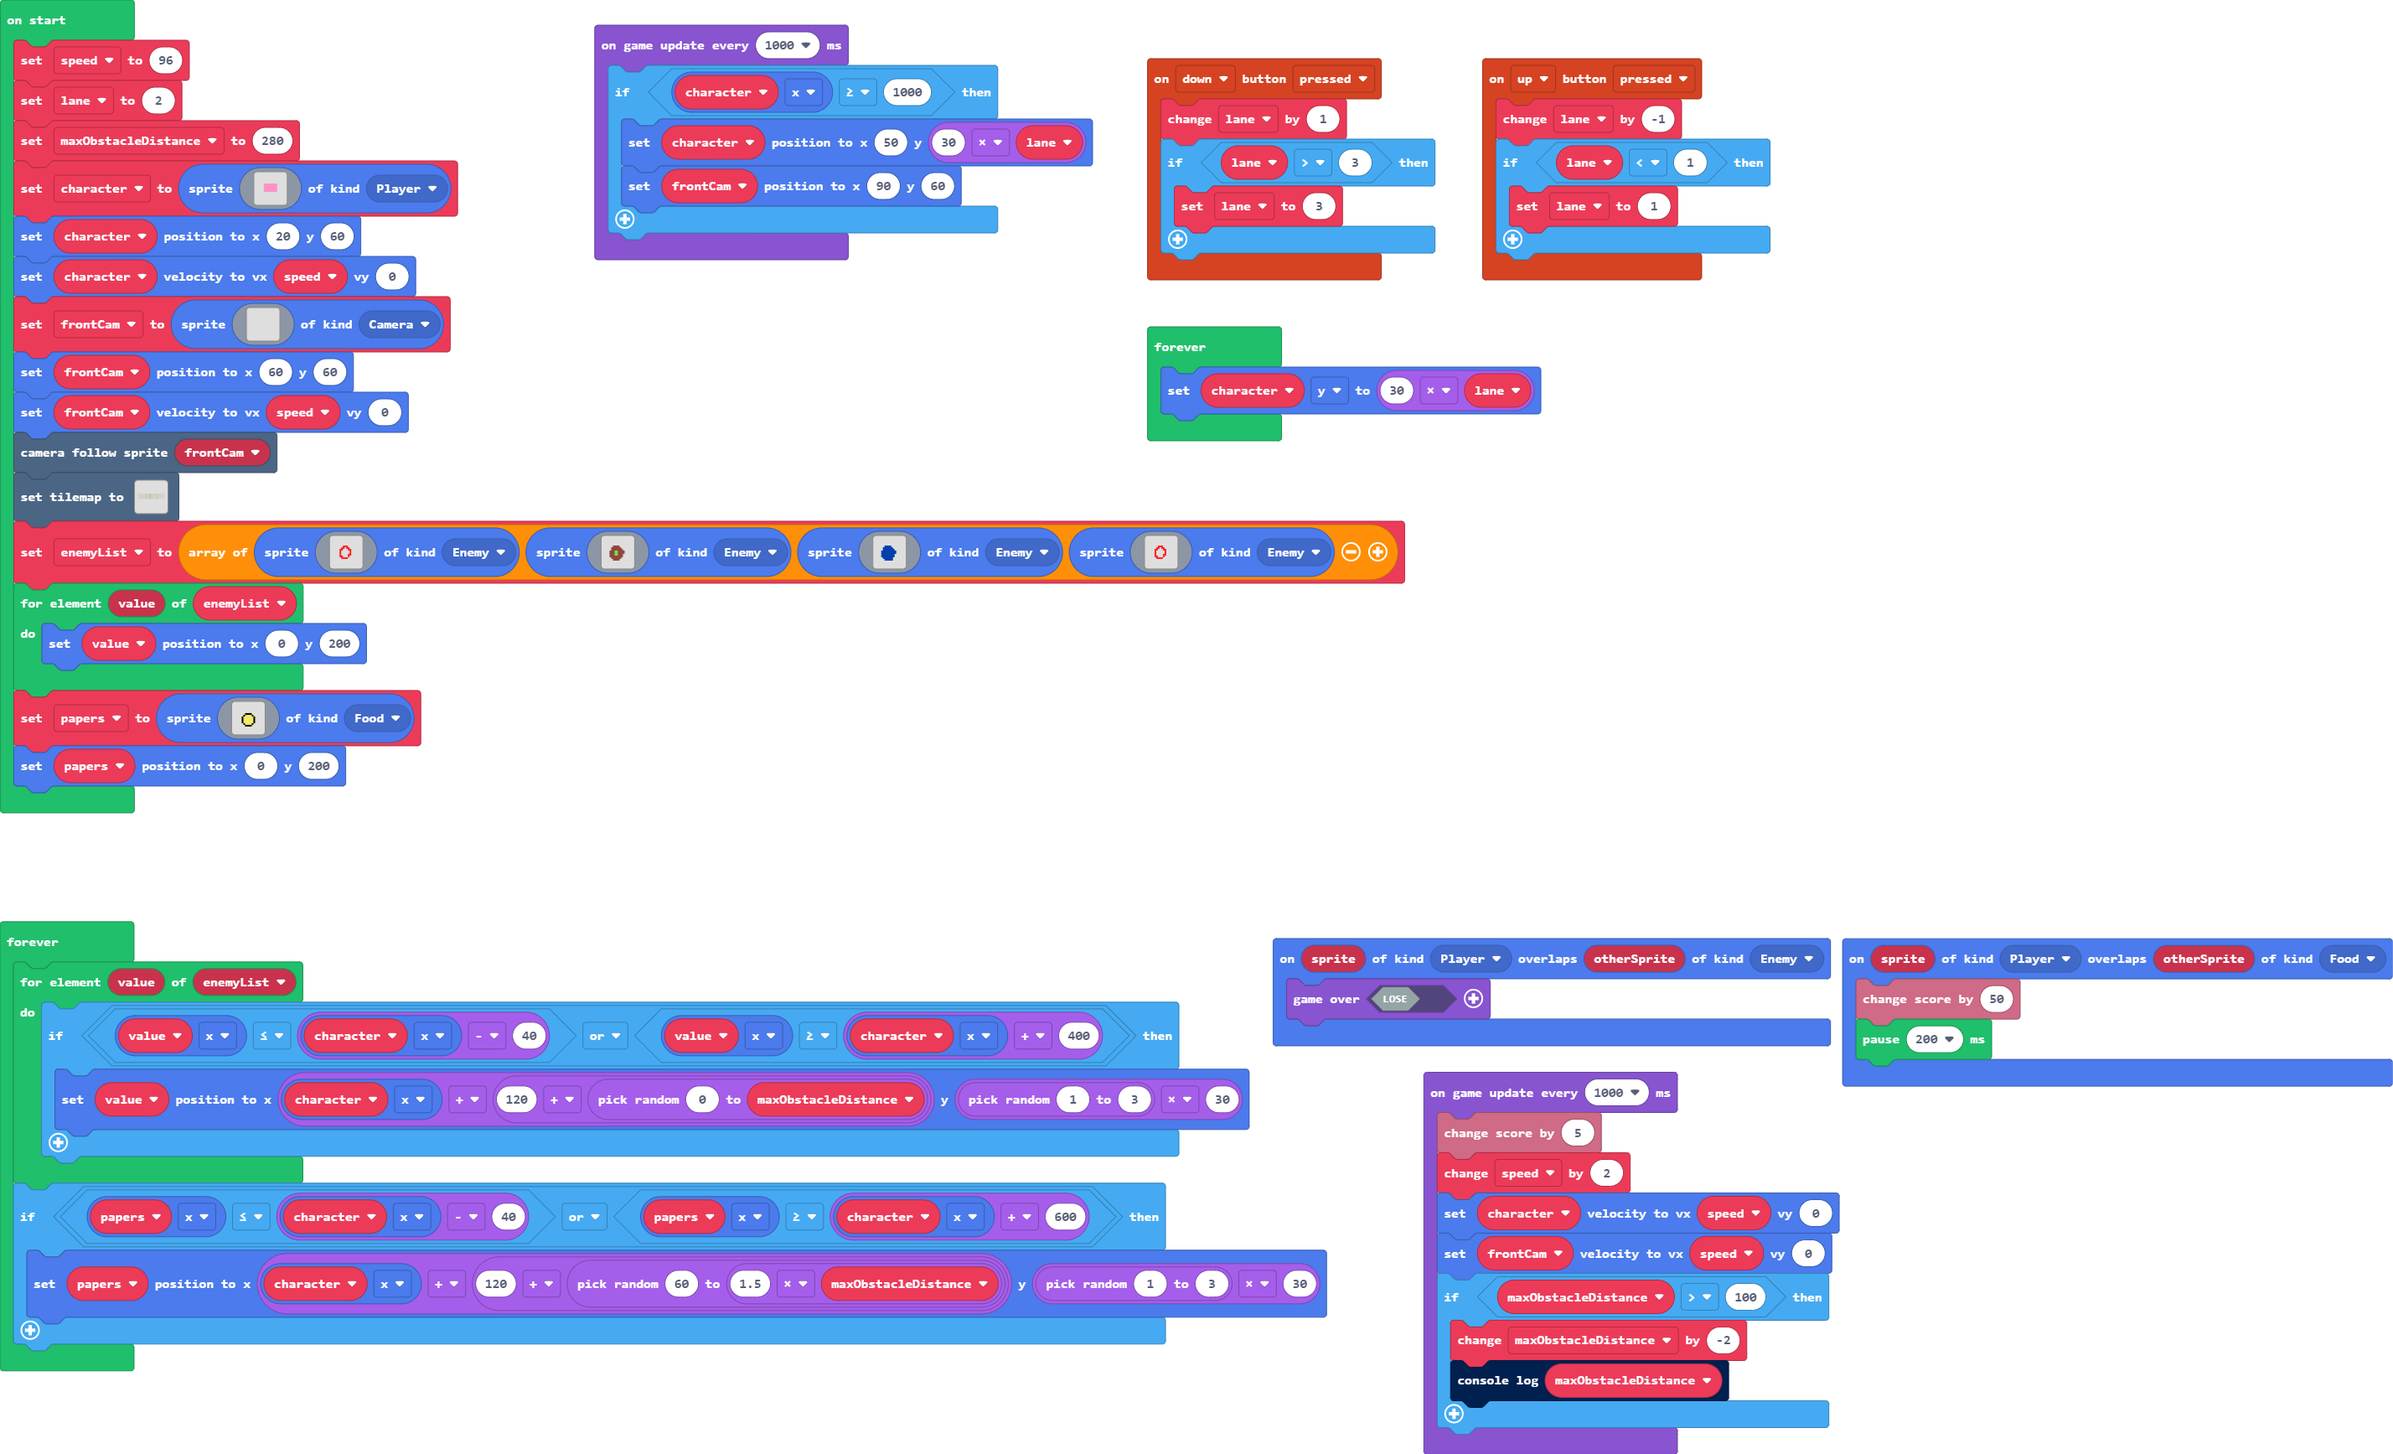
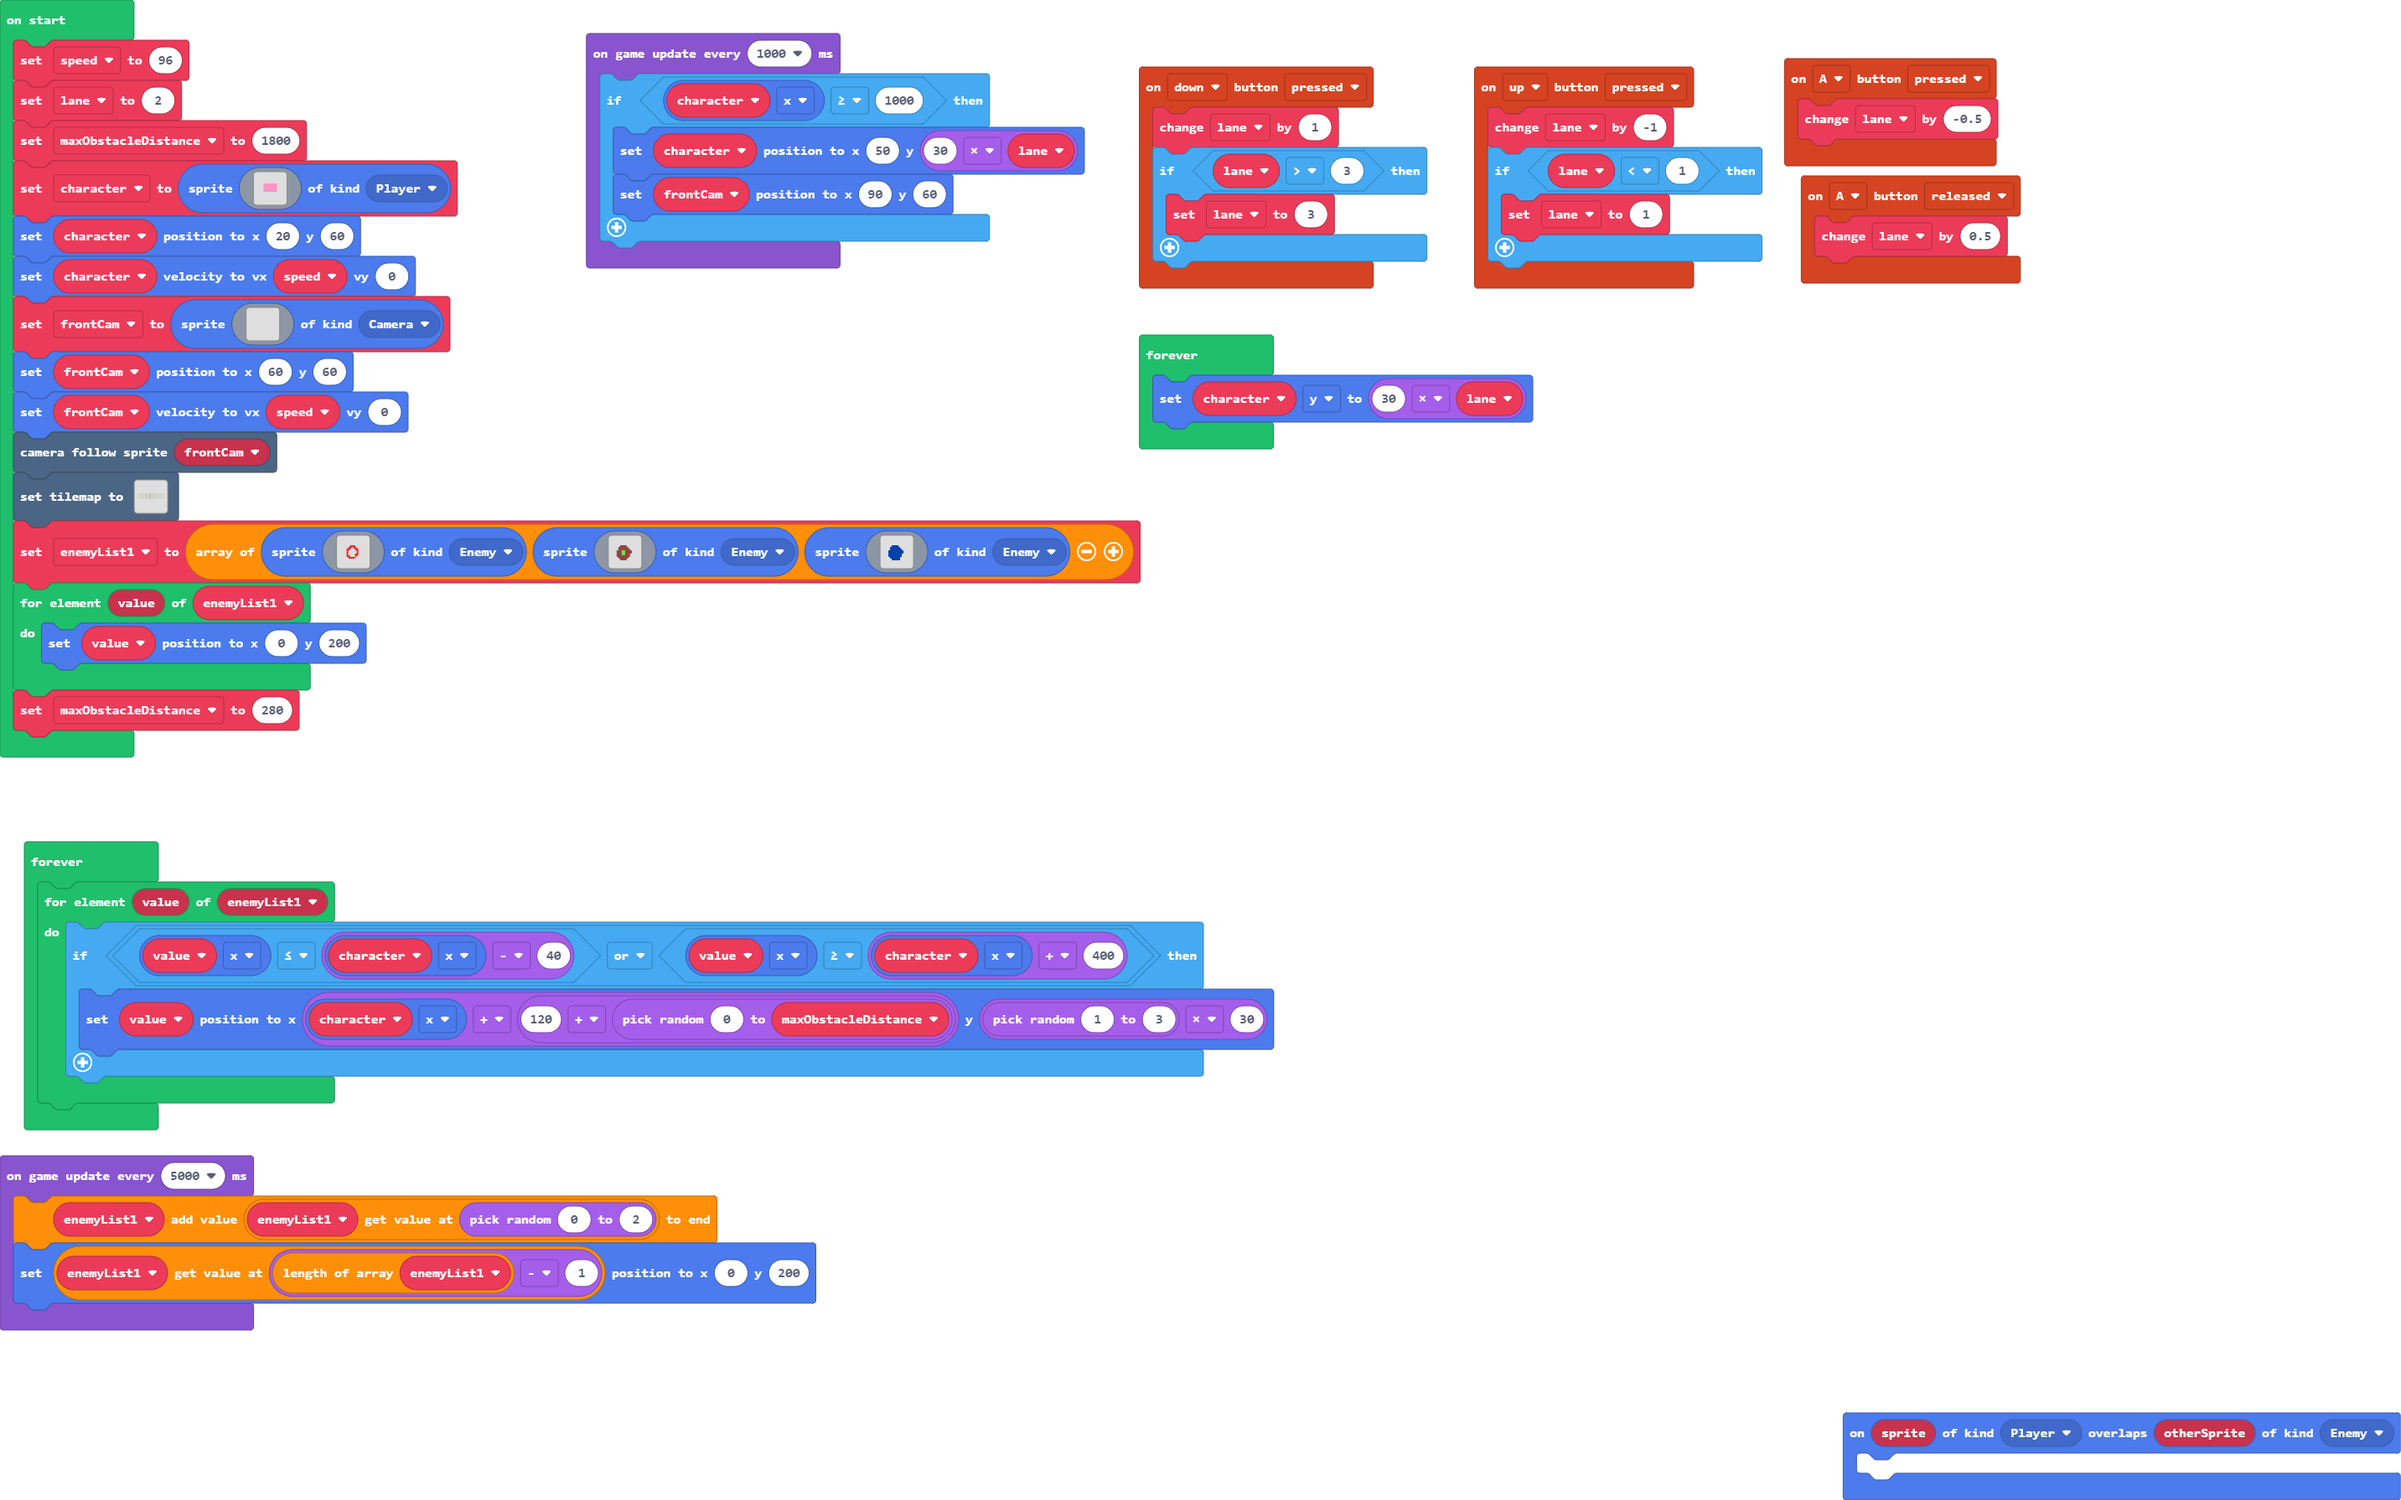
Update main.blocks, main.ts

diff --git a/main.ts b/main.ts
@@ -7,6 +7,12 @@ controller.up.onEvent(ControllerButtonEvent.Pressed, function () {
         lane = 1
     }
 })
+controller.A.onEvent(ControllerButtonEvent.Pressed, function () {
+    lane += -0.5
+})
+controller.A.onEvent(ControllerButtonEvent.Released, function () {
+    lane += 0.5
+})
 controller.down.onEvent(ControllerButtonEvent.Pressed, function () {
     lane += 1
     if (lane > 3) {
